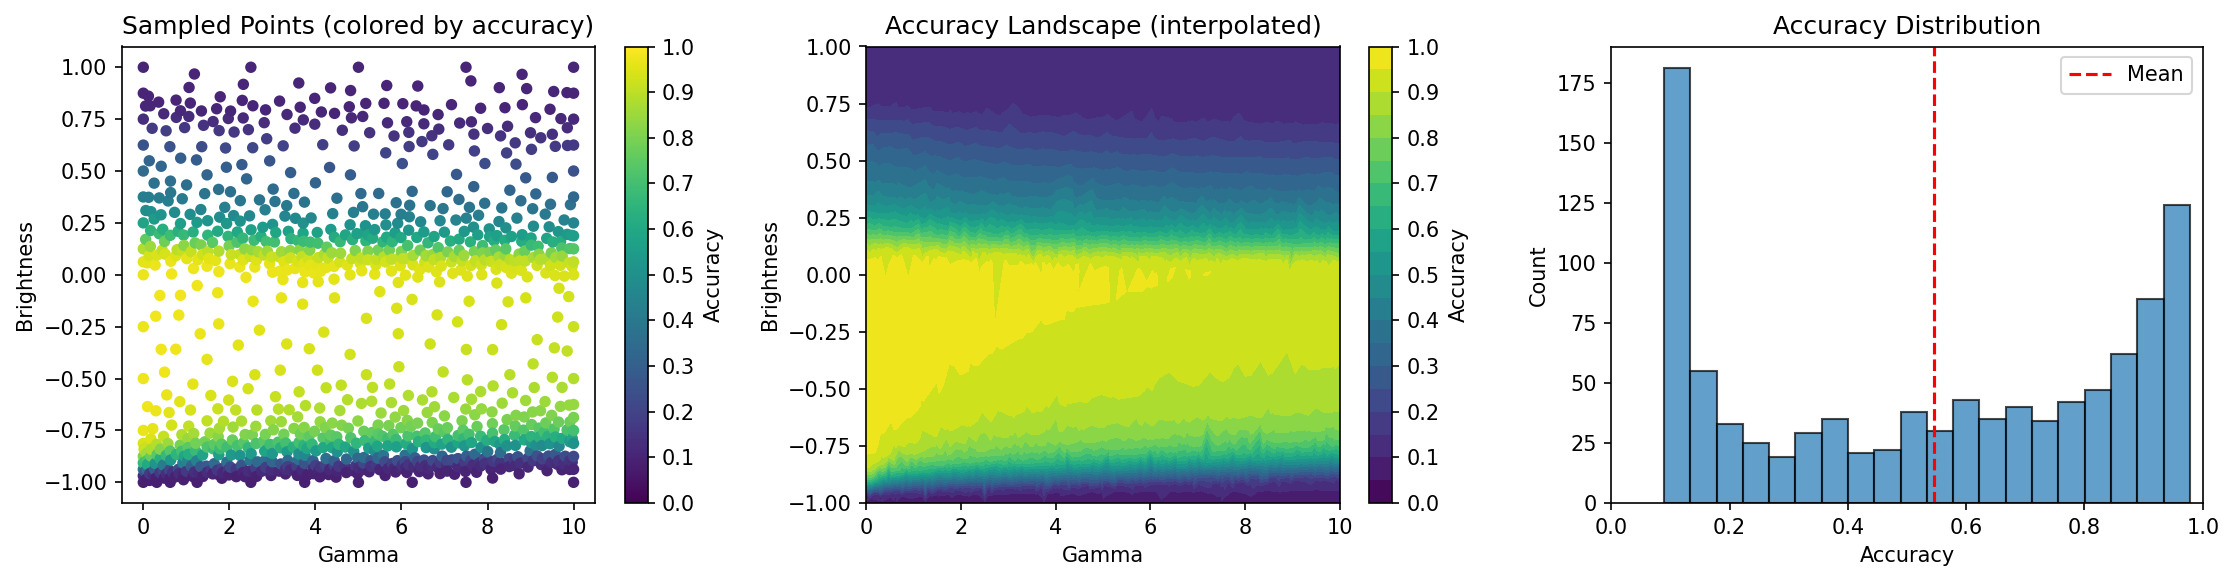
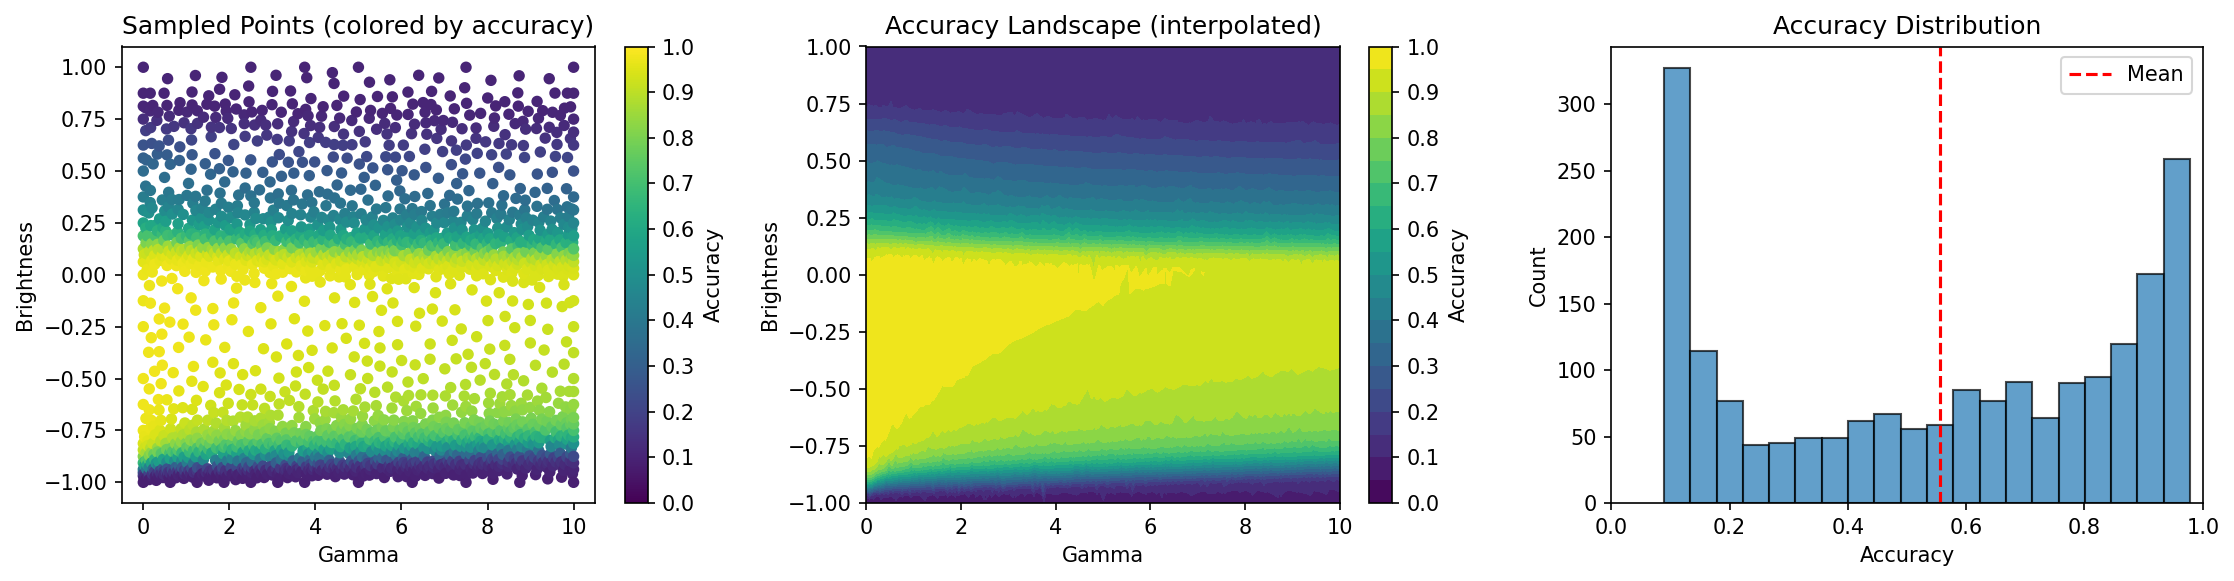
allow parallel processing and sample more points

diff --git a/sensitivity_analysis.py b/sensitivity_analysis.py
@@ -25,8 +25,14 @@ from sklearn.datasets import fetch_openml, get_data_home
 from sklearn.metrics import accuracy_score
 from sklearn.utils import check_array
 
+
 # Cache directory for classifiers
 DEFAULT_CACHE_DIR = os.path.join(get_data_home(), "mnist_classifier_cache")
+
+# Globals for multiprocessing compatibility
+GLOBAL_X_TEST = None
+GLOBAL_Y_TEST = None
+GLOBAL_MODEL = None
 
 
 def load_test_data(dtype=np.float32, order="C"):
@@ -90,14 +96,11 @@ def evaluate_accuracy(X_test, y_test, model, gamma, brightness):
     return accuracy_score(y_test, y_pred)
 
 
-def create_accuracy_function(X_test, y_test, model):
-    """Create a function that computes accuracy for given (gamma, brightness) pair"""
 
-    def accuracy_func(params):
-        gamma, brightness = params
-        return evaluate_accuracy(X_test, y_test, model, gamma, brightness)
-
-    return accuracy_func
+# Top-level function for multiprocessing
+def accuracy_func(params):
+    gamma, brightness = params
+    return evaluate_accuracy(GLOBAL_X_TEST, GLOBAL_Y_TEST, GLOBAL_MODEL, gamma, brightness)
 
 
 def run_adaptive_sampling(
@@ -107,6 +110,7 @@ def run_adaptive_sampling(
     gamma_bounds=(0.2, 3.0),
     brightness_bounds=(-0.5, 0.5),
     npoints_goal=200,
+    n_workers=1,
 ):
     """
     Run adaptive sampling to explore the parameter space.
@@ -131,33 +135,49 @@ def run_adaptive_sampling(
     learner : adaptive.Learner2D
         The trained learner with sampled data
     """
-    accuracy_func = create_accuracy_function(X_test, y_test, model)
+    import concurrent.futures
+    import asyncio
 
-    # Create 2D learner
+
+    # Set globals for multiprocessing
+    global GLOBAL_X_TEST, GLOBAL_Y_TEST, GLOBAL_MODEL
+    GLOBAL_X_TEST = X_test
+    GLOBAL_Y_TEST = y_test
+    GLOBAL_MODEL = model
+
     learner = adaptive.Learner2D(
         accuracy_func, bounds=[gamma_bounds, brightness_bounds]
     )
 
-    # Run the adaptive sampling
-    print(f"Starting adaptive sampling...")
+    print(f"Starting adaptive sampling (parallel)...")
     print(f"  Gamma range: {gamma_bounds}")
     print(f"  Brightness range: {brightness_bounds}")
     print(f"  Target points: {npoints_goal}")
+    print(f"  Number of workers: {n_workers}")
     print()
 
-    # Use manual loop with progress bar
-    with tqdm(total=npoints_goal, desc="Sampling", unit="pts") as pbar:
-        while learner.npoints < npoints_goal:
-            # Get the next point to evaluate
-            point, _ = learner.ask(1)
-            # Evaluate the function at this point
-            value = accuracy_func(point[0])
-            # Tell the learner the result
-            learner.tell(point[0], value)
-            pbar.update(1)
+    # Use adaptive.Runner for parallel execution
+    with concurrent.futures.ProcessPoolExecutor(max_workers=n_workers) as executor:
+        runner = adaptive.Runner(
+            learner,
+            goal=lambda l: l.npoints >= npoints_goal,
+            executor=executor,
+            shutdown_executor=True,
+        )
+        # tqdm progress bar integration
+        pbar = tqdm(total=npoints_goal, desc="Sampling", unit="pts")
+        last_n = 0
+        async def progress_watcher():
+            while learner.npoints < npoints_goal:
+                await asyncio.sleep(0.5)
+                pbar.update(learner.npoints - pbar.n)
+            pbar.update(npoints_goal - pbar.n)
+            pbar.close()
+        loop = runner.ioloop
+        tasks = [runner.task, progress_watcher()]
+        loop.run_until_complete(asyncio.gather(*tasks))
 
     print(f"Sampling complete! Total points: {learner.npoints}")
-
     return learner
 
 
@@ -524,6 +544,12 @@ if __name__ == "__main__":
         help="Number of points to sample adaptively",
     )
     parser.add_argument(
+        "--n-workers",
+        type=int,
+        default=1,
+        help="Number of parallel workers for adaptive sampling (python-adaptive)",
+    )
+    parser.add_argument(
         "--output",
         type=str,
         default="sensitivity_results.npz",
@@ -562,6 +588,8 @@ if __name__ == "__main__":
     baseline_acc = evaluate_accuracy(X_test, y_test, model, gamma=1.0, brightness=0.0)
     print(f"\nBaseline accuracy (gamma=1, brightness=0): {baseline_acc:.4f}")
 
+    import time
+    start_time = time.time()
     # Run adaptive sampling
     learner = run_adaptive_sampling(
         model,
@@ -570,7 +598,10 @@ if __name__ == "__main__":
         gamma_bounds=(args.gamma_min, args.gamma_max),
         brightness_bounds=(args.brightness_min, args.brightness_max),
         npoints_goal=args.npoints,
+        n_workers=args.n_workers,
     )
+    elapsed = time.time() - start_time
+    print(f"\nElapsed time for adaptive sampling: {elapsed:.2f} seconds\n")
 
     # Analyze and display results
     analyze_results(learner)

diff --git a/README.md b/README.md
@@ -18,18 +18,20 @@ uv run sensitivity_analysis.py \
   --plot sensitivity_plot.png \
   --plot-transforms transforms.png \
   --gamma-min 0 --gamma-max 10 \
+  --n-workers 5 \
   --brightness-min -1 --brightness-max 1
 ```
 
 ## Results
+
 - **Summary statistics** (from `sensitivity_results.npz`):
-  - Number of sampled points: **1000**
-  - Mean accuracy: **0.546**
-  - Std accuracy: **0.317**
-  - Min accuracy: **0.089**
-  - Max accuracy: **0.978**
-  - Worst-case: $\gamma=0.0$, $b=-1.0$ $\rightarrow$ accuracy = **0.089**
-  - Best-case: $\gamma\approx0.38$, $b\approx-0.10$ $\rightarrow$ accuracy = **0.978**
+  - Number of sampled points: **2002**
+  - Mean accuracy: **0.556**
+  - Std accuracy: **0.315**
+  - Min accuracy: **0.0892**
+  - Max accuracy: **0.9784**
+  - Worst-case: $\gamma=0.0$, $b=-1.0$ $\rightarrow$ accuracy = **0.0892**
+  - Best-case: $\gamma\approx0.37$, $b\approx-0.21$ $\rightarrow$ accuracy = **0.9784**
 
 - **Visualization**:
   - ![Sensitivity Plot](sensitivity_plot.png)
